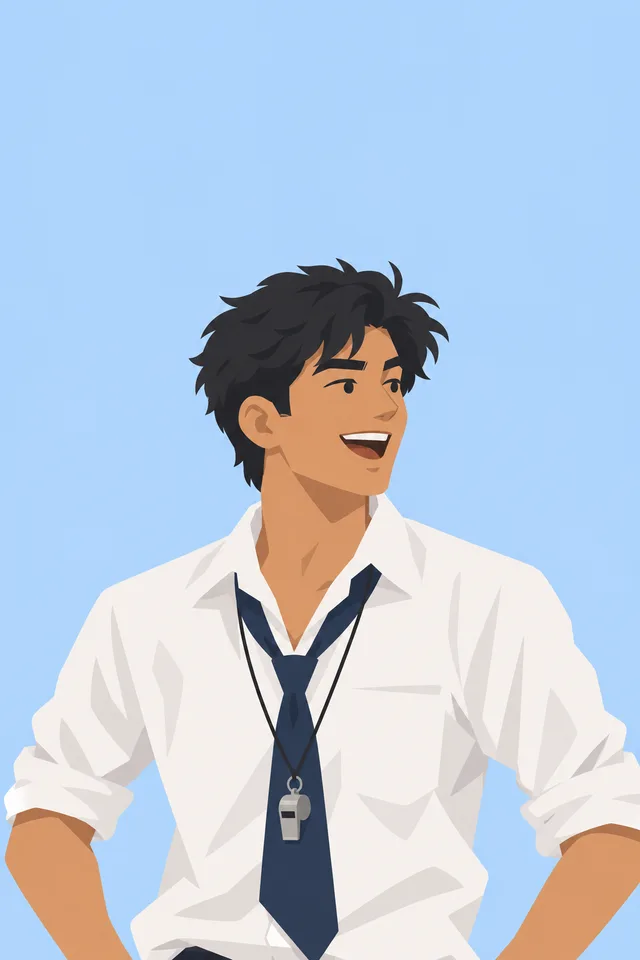
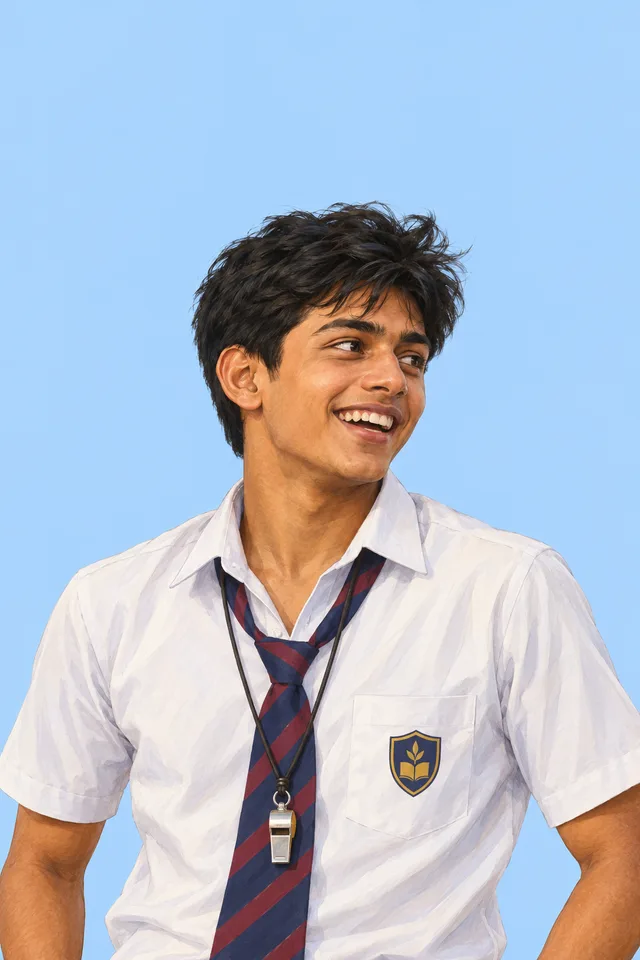
Refine portraits and kiosk flow
- Update candidate portraits and campaign card framing
- Add a final-count step to the runoff walkthrough
- Warn visitors before resetting an idle kiosk session
- Tighten simulation student card spacing

Changed region(s): [[0.0, 0.1875, 1.0, 1.0]]

diff --git a/src/components/election-experience.tsx b/src/components/election-experience.tsx
@@ -6,7 +6,7 @@ import { Button } from "@/components/ui/button";
 import { ToggleGroup, ToggleGroupItem } from "@/components/ui/toggle-group";
 import { Dialog, DialogClose, DialogContent, DialogDescription, DialogFooter, DialogHeader, DialogTitle, DialogTrigger } from "@/components/ui/dialog";
 import { FieldLegend, FieldSet } from "@/components/ui/field";
-import { Portrait } from "@/components/portrait";
+import { Portrait, portraitBackdrop } from "@/components/portrait";
 import { CandidateName, CountChart, PointsExplainer, Ranking, RunoffWalkthrough } from "@/components/election-visuals";
 import { SimulationLab } from "@/components/simulation-lab";
 import { candidateIds, candidates, firstChoiceWithVisitor, nameOf, runoff, scenarios, withVisitor, type CandidateId } from "@/lib/elections";
@@ -40,6 +40,7 @@ export function ElectionExperience() {
   const [ballot, setBallot] = useState<CandidateId[] | null>(null);
   // Rank a ballot, follow instant runoff, then count the same ballot with points.
   const [rankStage, setRankStage] = useState(0);
+  const [runoffRound, setRunoffRound] = useState(0);
   const [simModel, setSimModel] = useState<VoterModel>("random");
   const [resetOpen, setResetOpen] = useState(false);
   const mainRef = useRef<HTMLElement>(null);
@@ -53,7 +54,7 @@ export function ElectionExperience() {
   function go(next: number) { setStep(next); setReached(r => Math.max(r, next)); }
   function reset() {
     setStep(0); setReached(0); setFavourite(null); setFirstVote(null); setKabirEntered(false);
-    setRankFirst(null); setRankBackup(null); setBallot(null); setRankStage(0);
+    setRankFirst(null); setRankBackup(null); setBallot(null); setRankStage(0); setRunoffRound(0);
     setSimModel("random"); setResetOpen(false);
   }
   function cast() {
@@ -65,18 +66,21 @@ export function ElectionExperience() {
   function countRanking() {
     if (!rankFirst || !rankBackup) return;
     setBallot([rankFirst, rankBackup, candidateIds.find(id => id !== rankFirst && id !== rankBackup)!]);
-    setRankStage(1);
+    setRankStage(1); setRunoffRound(0);
   }
   function next() {
     if (step === 0) cast();
     else if (step === 1 && !kabirEntered) setKabirEntered(true);
     else if (step === 2 && rankStage === 0) countRanking();
+    // Show the runoff's final count before moving on, so nobody skips past who actually wins.
+    else if (step === 2 && rankStage === 1 && runoffRound < lastRound) setRunoffRound(lastRound);
     else if (step === 2 && rankStage === 1) setRankStage(2);
     else if (step === chapters.length - 1) setResetOpen(true);
     else go(step + 1);
   }
   function back() {
-    if (step === 2 && rankStage > 0) setRankStage(rankStage - 1);
+    if (step === 2 && rankStage === 1 && runoffRound > 0) setRunoffRound(0);
+    else if (step === 2 && rankStage > 0) setRankStage(rankStage - 1);
     else if (step === 1 && kabirEntered) setKabirEntered(false);
     else go(step - 1);
   }
@@ -87,10 +91,11 @@ export function ElectionExperience() {
   const kabirTook = { A: twoCandidateCount.counts.A - initialCount.counts.A, B: twoCandidateCount.counts.B - initialCount.counts.B, C: 0 };
   const rankGroups = withVisitor(scenarios.original.groups, ballot);
   const ranked = runoff(rankGroups);
+  const lastRound = ranked.rounds.length - 1;
   const canContinue = step === 0 ? !!favourite : step === 2 ? rankStage > 0 || (!!rankFirst && !!rankBackup) : true;
   const nextLabel = step === 0 ? favourite ? `Vote for ${nameOf(favourite)}` : "Pick a candidate"
     : step === 1 ? kabirEntered ? "Try ranking" : "Kabir joins the race"
-    : step === 2 ? ["Count my ranking", "Count with points", "Try more elections"][rankStage]
+    : step === 2 ? rankStage === 1 && runoffRound < lastRound ? "See the final count" : ["Count my ranking", "Count with points", "Try more elections"][rankStage]
     : "Start again";
   const title = step === 1 ? "Can a new candidate change the winner?"
     : step === 2 ? ["Now rank your top two", "Instant runoff", "Points (Borda)"][rankStage]
@@ -110,7 +115,7 @@ export function ElectionExperience() {
         <div className="tour-stage" ref={stageRef} data-step={step}><div className="stage-enter" key={`${step}-${rankStage}`}>
           {step === 0 && <ToggleGroup type="single" variant="campaign" size="campaign" value={favourite ?? ""} onValueChange={v => setFavourite((v || null) as CandidateId | null)} className="candidate-options" aria-label="Choose your prefect">
             {candidates.filter(c => c.id !== "C").map(c => <ToggleGroupItem key={c.id} value={c.id} aria-label={`Choose ${c.name}`} aria-describedby={`campaign-${c.id}`}>
-              <span className="campaign-portrait"><Portrait id={c.id} /><span className="campaign-slogan">“{c.slogan}”</span></span>
+              <span className="campaign-portrait" style={{ background: portraitBackdrop(c.id) }}><Portrait id={c.id} /><span className="campaign-slogan">“{c.slogan}”</span></span>
               <span className="campaign-heading"><span className="campaign-name">{c.name} {c.surname}</span><span className="choice-circle">{favourite === c.id && <Check aria-hidden="true" />}</span></span>
               <span className="campaign-body" id={`campaign-${c.id}`}>
                 <span className="campaign-grade">Grade {c.grade}</span>
@@ -139,7 +144,7 @@ export function ElectionExperience() {
             <div className="rank-card"><FieldSet><FieldLegend>First choice</FieldLegend><CandidateChoices value={rankFirst} label="My favourite" onChange={id => { setRankFirst(id); setRankBackup(null); }} /></FieldSet></div>
             <div className="rank-card"><FieldSet><FieldLegend>Second choice</FieldLegend>{rankFirst ? <CandidateChoices value={rankBackup} exclude={rankFirst} label="My backup" onChange={setRankBackup} /> : <p className="note">Pick your first choice first.</p>}</FieldSet></div>
             <p className="ranking-preview">Your ballot: {rankFirst ? <Ranking ranking={rankBackup ? [rankFirst, rankBackup, candidateIds.find(id => id !== rankFirst && id !== rankBackup)!] : [rankFirst]} /> : "Waiting for your first choice"}</p>
-          </div> : rankStage === 1 ? <RunoffWalkthrough result={ranked} /> : <div className="stage points-stage" aria-live="polite"><PointsExplainer groups={rankGroups} ballot={ballot} /></div>)}
+          </div> : rankStage === 1 ? <RunoffWalkthrough result={ranked} round={runoffRound} onRound={setRunoffRound} /> : <div className="stage points-stage" aria-live="polite"><PointsExplainer groups={rankGroups} ballot={ballot} /></div>)}
 
           {step === 3 && <div className="stage"><SimulationLab model={simModel} onModelChange={setSimModel} /></div>}
 

diff --git a/src/components/election-visuals.tsx b/src/components/election-visuals.tsx
@@ -6,7 +6,7 @@ import { ToggleGroup, ToggleGroupItem } from "@/components/ui/toggle-group";
 import { Accordion, AccordionContent, AccordionItem, AccordionTrigger } from "@/components/ui/accordion";
 import { Card, CardContent, CardDescription, CardFooter, CardHeader, CardTitle } from "@/components/ui/card";
 import { Portrait } from "@/components/portrait";
-import { candidateIds, nameOf, positional, type BallotGroup, type CandidateId, type Counts, type Result, type RunoffResult } from "@/lib/elections";
+import { candidateIds, nameOf, positional, runoff, type BallotGroup, type CandidateId, type Counts, type Result, type RunoffResult } from "@/lib/elections";
 
 // Counts up (or down) to `value` so changes are easy to follow. Jumps straight there with reduced motion.
 export function AnimatedNumber({ value, duration = 450 }: { value: number; duration?: number }) {
@@ -17,7 +17,8 @@ export function AnimatedNumber({ value, duration = 450 }: { value: number; durat
     if (start === value || window.matchMedia("(prefers-reduced-motion: reduce)").matches) { from.current = value; setShown(value); return; }
     const began = performance.now();
     let frame = requestAnimationFrame(function tick(now) {
-      const t = Math.min(1, (now - began) / duration);
+      // rAF can pass a timestamp from before `began`, which would overshoot below the start.
+      const t = Math.min(1, Math.max(0, (now - began) / duration));
       const next = Math.round(start + (value - start) * (1 - (1 - t) ** 3));
       from.current = next; setShown(next);
       if (t < 1) frame = requestAnimationFrame(tick);
@@ -123,6 +124,7 @@ export function PointsExplainer({ groups, ballot, weights = [2, 1, 0] }: { group
   const winner = result.winners.length === 1 ? result.winners[0] : null;
   const order = [...candidateIds].sort((a, b) => result.counts[b] - result.counts[a]);
   const firstLeader = [...candidateIds].sort((a, b) => tally(b, 0) - tally(a, 0))[0];
+  const runoffWinner = runoff(groups).winners;
   const places = ["1st", "2nd", "3rd"];
   return <div className="points-explainer">
     {ballot && <section className="points-rule" aria-label="How your ballot gives out points">
@@ -145,18 +147,19 @@ export function PointsExplainer({ groups, ballot, weights = [2, 1, 0] }: { group
       ? `${nameOf(winner)} has the most first choices and the most points.`
       : tally(winner, 1) > tally(firstLeader, 1)
         ? `${nameOf(firstLeader)} has the most first choices, but more students put ${nameOf(winner)} second. That’s enough to win on points.`
-        : `${nameOf(winner)} wins on points.`}</p>}
+        : `${nameOf(winner)} wins on points.`}
+      {runoffWinner.length === 1 && runoffWinner[0] !== winner && <> <strong>Same ballots, but instant runoff picked {nameOf(runoffWinner[0])}.</strong></>}</p>}
   </div>;
 }
 
-export function RunoffWalkthrough({ result }: { result: RunoffResult }) {
-  const [roundIndex, setRoundIndex] = useState(0);
+// `round` is controlled, so the footer's main button can step through the rounds too.
+export function RunoffWalkthrough({ result, round: roundIndex, onRound }: { result: RunoffResult; round: number; onRound: (round: number) => void }) {
   const index = Math.min(roundIndex, result.rounds.length - 1);
   const round = result.rounds[index];
   const previous = result.rounds[index - 1];
   const winner = !round.eliminated && result.winners.length === 1 ? result.winners[0] : null;
   return <div className="runoff-walkthrough">
-    <ToggleGroup type="single" variant="outline" size="lg" spacing={0} value={String(index)} onValueChange={value => value && setRoundIndex(Number(value))} aria-label="Instant runoff round" className="round-selector">
+    <ToggleGroup type="single" variant="outline" size="lg" spacing={0} value={String(index)} onValueChange={value => value && onRound(Number(value))} aria-label="Instant runoff round" className="round-selector">
       {result.rounds.map((_, i) => <ToggleGroupItem key={i} value={String(i)}>{i === result.rounds.length - 1 ? "Final count" : "First count"}</ToggleGroupItem>)}
     </ToggleGroup>
     <div className="runoff-grid" aria-live="polite">

diff --git a/src/app/globals.css b/src/app/globals.css
@@ -104,8 +104,9 @@
 .candidate-options[data-slot="toggle-group"] { display: grid; grid-template-columns: repeat(3, minmax(0, 1fr)); width: 100%; gap: 22px; align-items: stretch; }
 .candidate-options [data-slot="toggle-group-item"] { display: flex; flex-direction: column; align-items: stretch; justify-content: flex-start; }
 .campaign-portrait { position: relative; display: block; height: 168px; overflow: hidden; margin: 9px 9px 0; border-radius: 8px; }
-/* Campaign posters: the whole portrait on its own colour, with the slogan beside it (or above it on tall screens). */
-.campaign-portrait .portrait-img { object-fit: contain; object-position: 88% 100%; transform: scale(1.45); transform-origin: 88% 100%; }
+/* Campaign posters: head and shoulders on the right, on the portrait's own colour, with the slogan beside it
+   (or above the whole figure on tall screens). */
+.campaign-portrait .portrait-img { position: absolute; inset: 0 0 0 auto; width: 44%; object-position: 50% 26%; }
 .campaign-slogan { position: absolute; inset: 0 auto 0 0; z-index: 1; display: flex; align-items: center; width: 58%; padding: 0 22px; font-size: 22px; font-weight: 650; line-height: 1.15; letter-spacing: -.4px; text-wrap: balance; color: #1d2433; }
 .portrait-img { display: block; width: 100%; height: 100%; object-fit: cover; object-position: 50% 28%; }
 .portrait-initial { display: grid; place-items: center; width: 100%; height: 100%; background: #f3ead8; color: var(--muted-foreground); font-size: 2em; font-weight: 600; }
@@ -373,7 +374,7 @@
 .story-pair { display: flex; align-items: center; gap: 18px; }
 .story-pair > span:nth-child(2) { color: var(--muted-foreground); font-size: 14px; }
 .entry-flows { display: flex; flex-direction: column; gap: 8px; margin: 16px 0; }
-.entry-flows > p { display: grid; grid-template-columns: 26px 1fr 14px auto; gap: 8px; align-items: center; margin: 0; font-size: 14px; }
+.entry-flows > p { display: grid; grid-template-columns: 26px auto 14px auto; justify-content: start; gap: 8px; align-items: center; margin: 0; font-size: 14px; }
 .entry-flows svg, .transfer-summary svg { width: 14px; height: 14px; }
 .entry-flows .candidate-name { font-size: 14px; gap: 5px; }
 .round-selector[data-slot="toggle-group"] { width: fit-content; margin-bottom: 16px; }
@@ -486,7 +487,7 @@
   .guided-app .candidate-options[data-slot="toggle-group"] { gap: 24px; }
   .guided-app .campaign-portrait { height: auto; aspect-ratio: 2 / 3; }
   .guided-app .campaign-slogan { display: block; inset: 0 0 auto; width: auto; padding: 26px 26px; font-size: 28px; letter-spacing: -.6px; }
-  .guided-app .campaign-portrait .portrait-img { object-fit: cover; object-position: 50% 100%; transform: none; }
+  .guided-app .campaign-portrait .portrait-img { inset: 6% 0 auto; width: 100%; height: 100%; object-position: 50% 0; }
   .guided-app .campaign-body { flex: none; gap: 14px; padding: 14px 24px 26px; }
   .guided-app .campaign-heading { padding: 20px 24px 0; }
   .guided-app .campaign-name { font-size: 30px; }
@@ -565,5 +566,11 @@
 /* Phones: the portrait is a small square beside the card text, so it has no room for a slogan. */
 @media (max-width: 700px) {
   .campaign-slogan { display: none; }
-  .campaign-portrait .portrait-img { object-fit: cover; object-position: 50% 75%; transform: none; }
+  .campaign-portrait .portrait-img { width: 100%; object-position: 50% 30%; }
 }
+
+/* Kiosk: a gentle warning before an idle session starts over. */
+.idle-warning { position: fixed; left: 50%; bottom: 28px; z-index: 50; display: flex; align-items: center; gap: 20px; width: max-content; max-width: calc(100% - 32px); padding: 16px 16px 16px 22px; border: 1px solid var(--border); border-radius: 14px; background: var(--card); box-shadow: 0 12px 40px #252b3833; transform: translateX(-50%); animation: idle-in 220ms ease-out both; }
+.idle-warning p { margin: 0; font-size: 17px; font-variant-numeric: tabular-nums; }
+@keyframes idle-in { from { opacity: 0; transform: translate(-50%, 12px); } }
+@media (max-width: 560px) { .idle-warning { flex-direction: column; align-items: stretch; gap: 12px; } }

diff --git a/scripts/generate-portraits.ts b/scripts/generate-portraits.ts
@@ -12,13 +12,13 @@ import sharp from "sharp";
 const OUT = new URL("../public/portraits/", import.meta.url).pathname;
 const PARALLEL = 6;
 
-const style = "Flat geometric illustration built from simple shapes, like a modern editorial avatar set: solid flat colours, no outlines, minimal facial features, dot eyes. Not anime, not manga: small simple eyes, realistic Indian facial features and proportions, no glossy highlights in the hair";
+const style = "Warm, naturalistic illustration, like a hand-painted picture in a good Indian school textbook: soft matte shading, true-to-life proportions, natural Indian facial features with naturally sized brown eyes (whites and irises visible), real-looking hair. An ordinary, everyday Indian school student, not a model. Not anime, not manga, not chibi, not a cartoon, no big sparkly eyes, no spiky or gravity-defying hair, no glossy highlights"
 
 // Candidates are in Grade 12. Their posters are tall, with empty space above the head for the slogan.
 const candidates = [
-  { file: "aarav", who: "Aarav, a 17-year-old Indian boy, football captain, cocky and cheerful, light-brown skin, tousled black hair, laughing mid-sentence, head turned three-quarters, white school shirt with sleeves rolled up and navy tie loosened, a whistle on a cord round his neck", backdrop: "soft sky blue (#b9d9fa)" },
-  { file: "meera", who: "Meera, a 17-year-old Indian girl, class representative since Grade 9, serious but kind, dark brown skin, black hair in two neat buns, a small knowing smile, holding a clipboard to her chest, white school shirt and navy tie with a prefect badge", backdrop: "soft pink (#f6c7d9)" },
-  { file: "kabir", who: "Kabir, a 17-year-old Indian boy who runs a peer tutoring club, warm and thoughtful, medium-brown skin, neat short black hair, round glasses, chin resting on one hand, navy school sweater over a white collar", backdrop: "soft lavender (#ded3fc)" },
+  { file: "aarav", who: "Aarav, a 17-year-old Indian schoolboy, football captain, cheerful and a bit cocky, wheatish-brown skin, short thick black hair a little messy from practice, mid-laugh, head turned three-quarters, standard Indian school uniform: white half-sleeve shirt with a school badge on the pocket and a navy-and-maroon striped tie worn loose, a whistle on a cord round his neck", backdrop: "soft sky blue (#b9d9fa)" },
+  { file: "meera", who: "Meera, a 17-year-old Indian schoolgirl, class representative since Grade 9, serious but kind, brown skin, oiled black hair in two long neat plaits tied with navy ribbons, a small knowing smile, holding a clipboard to her chest, standard Indian school uniform: white half-sleeve shirt, navy-and-maroon striped tie, a small prefect badge pinned above the pocket", backdrop: "soft pink (#f6c7d9)" },
+  { file: "kabir", who: "Kabir, a 17-year-old Indian schoolboy who runs a peer tutoring club, warm and thoughtful, medium-brown skin, neatly side-parted short black hair, round thin-framed glasses, a slight smile, holding a few notebooks against his side, standard Indian school uniform: navy V-neck school sweater over a white shirt and a navy-and-maroon striped tie", backdrop: "soft lavender (#ded3fc)" },
 ].map(c => ({ ...c, tall: true }));
 
 // One face per name in scripts/generate-students.ts. Students are in Classes 6 to 10, so about 11 to 15.

diff --git a/src/components/kiosk.tsx b/src/components/kiosk.tsx
@@ -3,29 +3,48 @@
 import { useEffect, useState } from "react";
 import { AttractScreen } from "@/components/attract-screen";
 import { ElectionExperience } from "@/components/election-experience";
+import { Button } from "@/components/ui/button";
 
 const idleMs = 2 * 60 * 1000;
+// A visitor who is only reading gets this long to say they are still there.
+const warnMs = 20 * 1000;
 
 // Shows the attract screen on load and after a quiet spell, then hands the next visitor a fresh election.
 export function Kiosk() {
   const [idle, setIdle] = useState(true);
   const [session, setSession] = useState(0);
+  const [left, setLeft] = useState<number | null>(null);
 
   useEffect(() => {
     if (idle) return;
-    let timer = 0;
+    let warnTimer = 0, tick = 0;
     const wake = () => {
-      window.clearTimeout(timer);
-      timer = window.setTimeout(() => { setIdle(true); setSession(s => s + 1); }, idleMs);
+      window.clearTimeout(warnTimer); window.clearInterval(tick);
+      setLeft(null);
+      warnTimer = window.setTimeout(() => {
+        const end = Date.now() + warnMs;
+        setLeft(warnMs / 1000);
+        tick = window.setInterval(() => {
+          const seconds = Math.ceil((end - Date.now()) / 1000);
+          if (seconds > 0) { setLeft(seconds); return; }
+          window.clearInterval(tick);
+          setLeft(null); setIdle(true); setSession(s => s + 1);
+        }, 250);
+      }, idleMs - warnMs);
     };
+    // Pointer movement alone counts, so someone reading with a hand on the mouse is never cut off.
     const events = ["pointerdown", "pointermove", "keydown", "wheel", "scroll", "touchstart"] as const;
     events.forEach(e => window.addEventListener(e, wake, { passive: true, capture: true }));
     wake();
-    return () => { window.clearTimeout(timer); events.forEach(e => window.removeEventListener(e, wake, { capture: true })); };
+    return () => { window.clearTimeout(warnTimer); window.clearInterval(tick); events.forEach(e => window.removeEventListener(e, wake, { capture: true })); };
   }, [idle]);
 
   return <>
     <div inert={idle}><ElectionExperience key={session} /></div>
+    {left !== null && <div className="idle-warning" role="alertdialog" aria-live="assertive" aria-label="Still there?">
+      <p><strong>Still there?</strong> Starting over for the next visitor in {left}s.</p>
+      <Button size="lg">Keep going</Button>
+    </div>}
     {idle && <AttractScreen onStart={() => setIdle(false)} />}
   </>;
 }

diff --git a/src/components/portrait.tsx b/src/components/portrait.tsx
@@ -8,15 +8,18 @@ import type { CandidateId } from "@/lib/elections";
 // above the head for the slogan; `face` is where the head is (as percentages of the image) so round avatars
 // can crop in on it.
 const candidates: Record<CandidateId, { file: string; backdrop: string; face: [number, number] }> = {
-  A: { file: "aarav", backdrop: "#abd3fd", face: [52, 43] },
-  B: { file: "meera", backdrop: "#f8bdd0", face: [50, 47] },
-  C: { file: "kabir", backdrop: "#d4c8fc", face: [54, 50] },
+  A: { file: "aarav", backdrop: "#a9d4fc", face: [52, 38] },
+  B: { file: "meera", backdrop: "#f4c1d5", face: [47, 40] },
+  C: { file: "kabir", backdrop: "#d7cbfa", face: [50, 41] },
 };
 
 function frame(face: [number, number], zoom: number) {
   const at = `${face[0]}% ${face[1]}%`;
   return { objectPosition: at, transformOrigin: at, transform: `scale(${zoom})` } satisfies CSSProperties;
 }
+
+// The flat colour behind each candidate, so a frame around a portrait can blend into it.
+export const portraitBackdrop = (id: CandidateId) => candidates[id].backdrop;
 
 // `small` crops in on the face for round avatars.
 export function Portrait({ id, small = false }: { id: CandidateId; small?: boolean }) {

diff --git a/src/components/simulation-lab.css b/src/components/simulation-lab.css
@@ -45,7 +45,7 @@
 .pg-handle-name { fill: var(--foreground); font-size: 15px; font-weight: 600; pointer-events: none; }
 .pg-dot[data-picked="true"] { stroke: var(--foreground); stroke-width: 2.5; }
 .pg-picture .pg-dot { cursor: default; }
-.pg-student { display: grid; grid-template-columns: 76px minmax(0, 1fr); column-gap: 14px; row-gap: 3px; align-items: start; margin: 10px 0 6px; padding: 12px 16px 12px 12px; border-radius: 12px; background: var(--muted); animation: pg-open 220ms ease-out both; }
+.pg-student { display: grid; grid-template-columns: 76px minmax(0, 1fr); column-gap: 14px; row-gap: 3px; align-items: start; margin: 8px 0 4px; padding: 12px 16px 12px 12px; border-radius: 12px; background: var(--muted); animation: pg-open 220ms ease-out both; }
 .pg-student > :not(.pg-student-face) { grid-column: 2; }
 .pg-student-face { grid-row: 1 / span 3; width: 76px; height: 76px; border-radius: 50%; overflow: hidden; box-shadow: 0 0 0 3px var(--card); }
 .pg-student figcaption { display: flex; align-items: baseline; justify-content: space-between; gap: 12px; }

diff --git a/src/components/simulation-lab.tsx b/src/components/simulation-lab.tsx
@@ -58,7 +58,7 @@ function SchoolPicture({ school, model, hovered, first, picked, onPick, onMove }
   if (model !== "spectrum") {
     // A block of dots, one per student, grouped by how they ranked the candidates.
     // AI students leave room under the dots for the student card.
-    const ai = model === "ai", h = ai ? (tall ? 150 : 124) : H;
+    const ai = model === "ai", h = ai ? (tall ? 150 : 88) : H;
     const sorted = school.students.map((student, i) => ({ ...student, i })).sort((a, b) => a.order - b.order || a.i - b.i);
     const cell = Math.min(34, Math.sqrt(W * (h - 10) / n));
     const columns = Math.max(1, Math.floor(W / cell));
